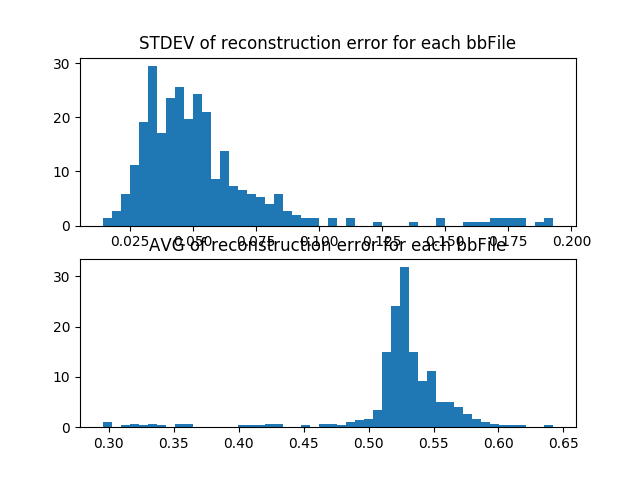
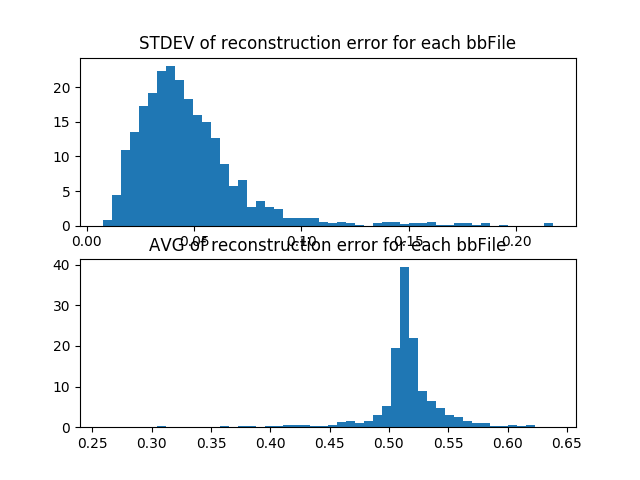
Updated plots for readability

diff --git a/code/check_reconstruction_errors.py b/code/check_reconstruction_errors.py
@@ -8,8 +8,9 @@ import statistics
 import matplotlib.pyplot as plt
 from plot_baseband_RFI import plot_detection
 
-errors = np.load('../data/errors.npy')
-bbfiles = np.load('../data/labels.npy')
+path_to_npys = '/Users/nsbruce/Documents/RFI/460DATA/'
+errors = np.load(path_to_npys+'errors.npy')
+bbfiles = np.load(path_to_npys+'labels.npy')
 
 collectionDict = {}
 for i in range(len(bbfiles)):
@@ -31,17 +32,24 @@ for key, value in collectionDict.items():
     avgs.append(np.average(value))
     labels.append(key)
 
+np.save(path_to_npys+'avgs.npy',avgs)
+np.save(path_to_npys+'stddevs.npy',stddevs)
+np.save(path_to_npys+'condensedlabels.npy',labels)
 
 
 fig, (ax1, ax2) = plt.subplots(2,1)
 ax1.hist(stddevs, 50, density=True)
 ax1.set_title("STDEV of reconstruction error for each bbFile")
+ax1.set_ylabel('Density (%)')
+ax1.set_xlabel('Standard deviation')
 
 ax2.hist(avgs, 50, density=True)
 ax2.set_title("AVG of reconstruction error for each bbFile")
+ax2.set_ylabel('Density (%)')
+ax2.set_xlabel('Average')
 
 plt.savefig("../figures/bbStats.png")
 
-i = np.argmax(np.array(avgs))
+# i = np.argmax(np.array(avgs))
 
-plot_detection(bb_file=labels[i], error=avgs[i])
+# plot_detection(bb_file=labels[i], error=avgs[i])

diff --git a/code/main.py b/code/main.py
@@ -164,12 +164,18 @@ np.save('/home/nsbruce/RFI/data/test_errors.npy', test_losses)
 
 if args.make_plots:
     # make histogram
-    plt.hist(train_losses, 50, density=True, facecolor='g',label='train data')
-    plt.hist(test_losses, 50, density=True, facecolor='b',label='test data')
-    plt.hist(anom_losses, 50, density=True, facecolor='r',label='anomalous data')
+    plt.hist(train_losses, 50, density=True, facecolor='g',label='Training')
+    # plt.hist(test_losses, 50, density=True, facecolor='b',label='Validation')
+    # plt.hist(anom_losses, 50, density=True, facecolor='r',label='Testing')
+    plt.hist(test_losses, 50, density=True, facecolor='b',label='Validation', alpha=0.5)
+    plt.hist(anom_losses, 50, density=True, facecolor='r',label='Testing', alpha=0.5)
     plt.legend()
-    plt.xlabel('Reconstruction Error, $||x - \hat{x}||_2^2$')
+    plt.xlabel('Reconstruction Error (RME)')
     plt.ylabel('Density (%)')
-    plt.grid(True)
+    plt.title('Reconstruction error for (500 sample) segments')
+    plt.xlim([0,1.2])
+    plt.ylim([0,20])
+    # plt.ylim([0,100])
+
     plt.savefig('/home/nsbruce/RFI/data/reconstruction_error.png')
 

diff --git a/code/plot_baseband_RFI.py b/code/plot_baseband_RFI.py
@@ -15,7 +15,7 @@ def parse_bb_path(bb_file):
     parentName, dat, idx, c64 = bb_file.split('.')
     idx = int(idx)
     path = path.split('waveforms')[0]
-    h5File = path+parentName+'.h5'
+    h5File = path+'Spectra/'+parentName+'.h5'
     return idx, h5File
 
     
@@ -34,7 +34,7 @@ def plot_detection(bb_file=None, h5=None, index=None, error=None):
     if error is None:
         title='File: {}, RFI index {}'.format(h5File, idx)
     else:
-        title='File: {}, RFI index {}, Reconstruction error {}'.format(h5File, idx, str(error))
+        title='File: {}, Detection {}, Reconstruction error: {}%'.format(h5File[-13:], idx, str(error*100)[:4])
 
 
     with h5py.File(h5File, 'r') as f:
@@ -67,7 +67,7 @@ def plot_detection(bb_file=None, h5=None, index=None, error=None):
         ax.set_ylabel('Freq (MHz)')
         fig.colorbar(im, label='dB', ax=ax, orientation='vertical')
         ax.set_title(title)
-        plt.show()
+        plt.show(block=False)
 
 
 

diff --git a/code/quick_check_max_detections.py b/code/quick_check_max_detections.py
@@ -1,0 +1,25 @@
+from plot_baseband_RFI import plot_detection
+import numpy as np
+
+path = '/Volumes/Backup Plus/'
+waveform_path = path+'waveforms/'
+h5_path = path+'Spectra/'
+
+avgs = np.load(path+'avgs.npy')
+labels = np.load(path+'condensedlabels.npy')
+
+bbFiles = [
+    waveform_path+'1565292014.dat.139.c64',
+    waveform_path+'1565292618.dat.39.c64',
+    waveform_path+'1565291105.dat.129.c64',
+    waveform_path+'1565293815.dat.53.c64',
+    waveform_path+'1565294109.dat.86.c64',
+    waveform_path+'1565290425.dat.31.c64'
+]
+
+indexes = [116, 197, 1107, 1674, 923, 457]
+
+zipped = zip(bbFiles, indexes)
+
+for file, idx in zipped:
+    plot_detection(bb_file=file, error=avgs[idx])
